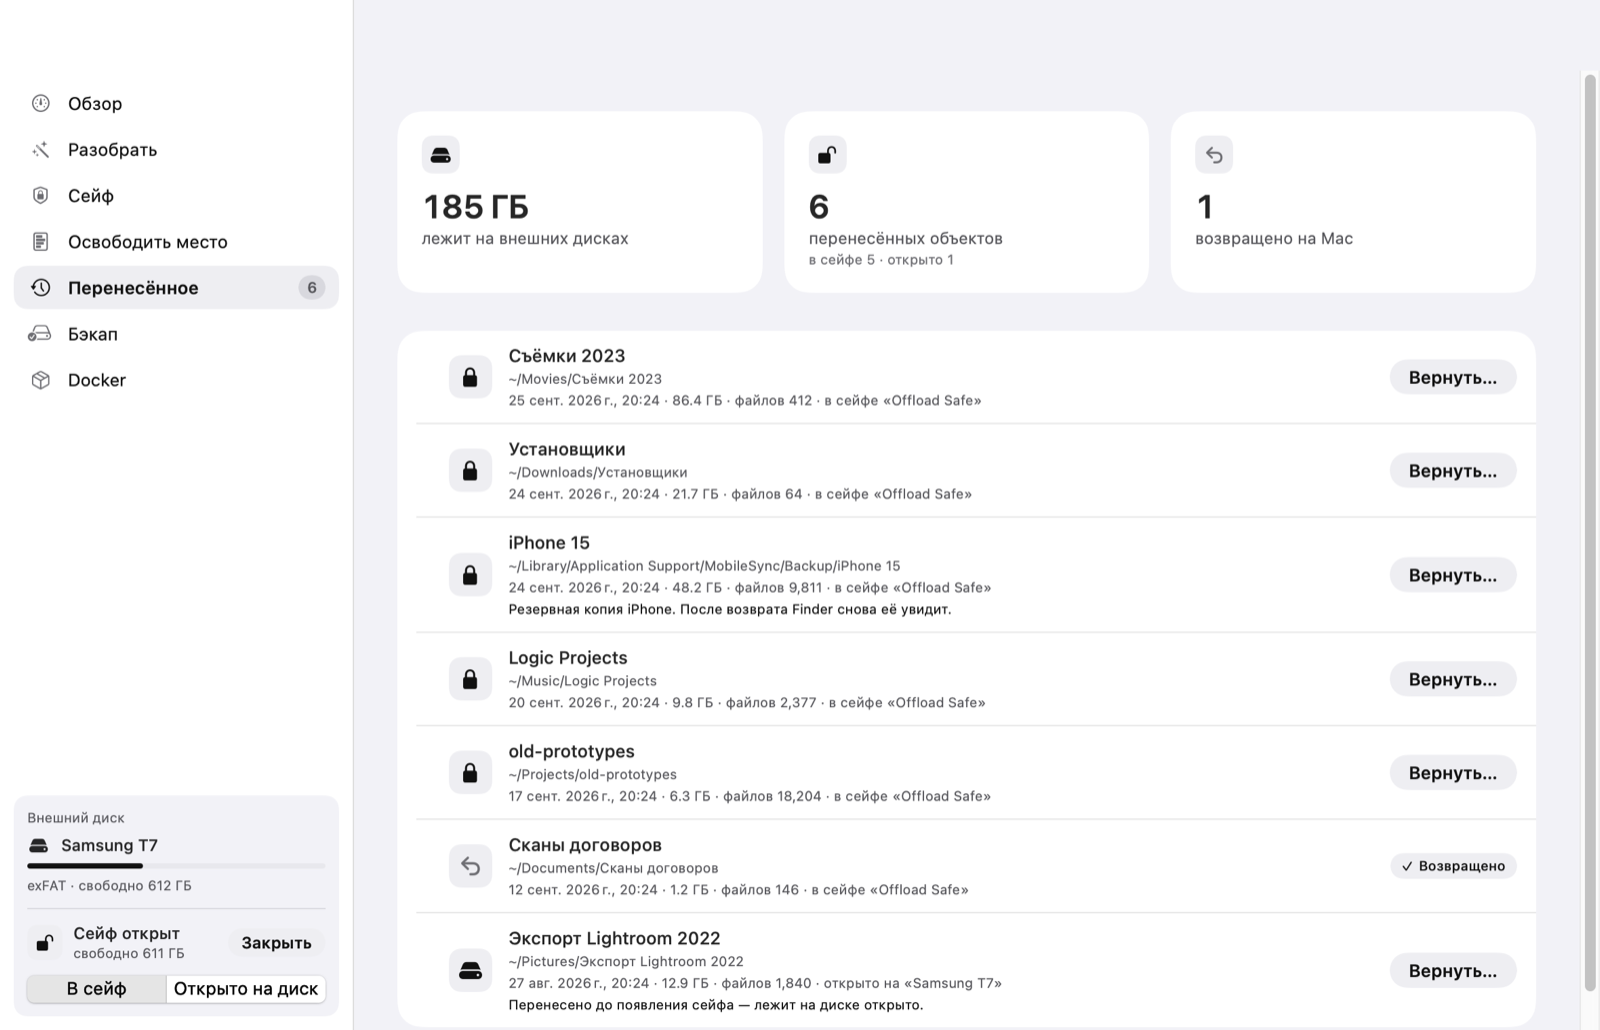
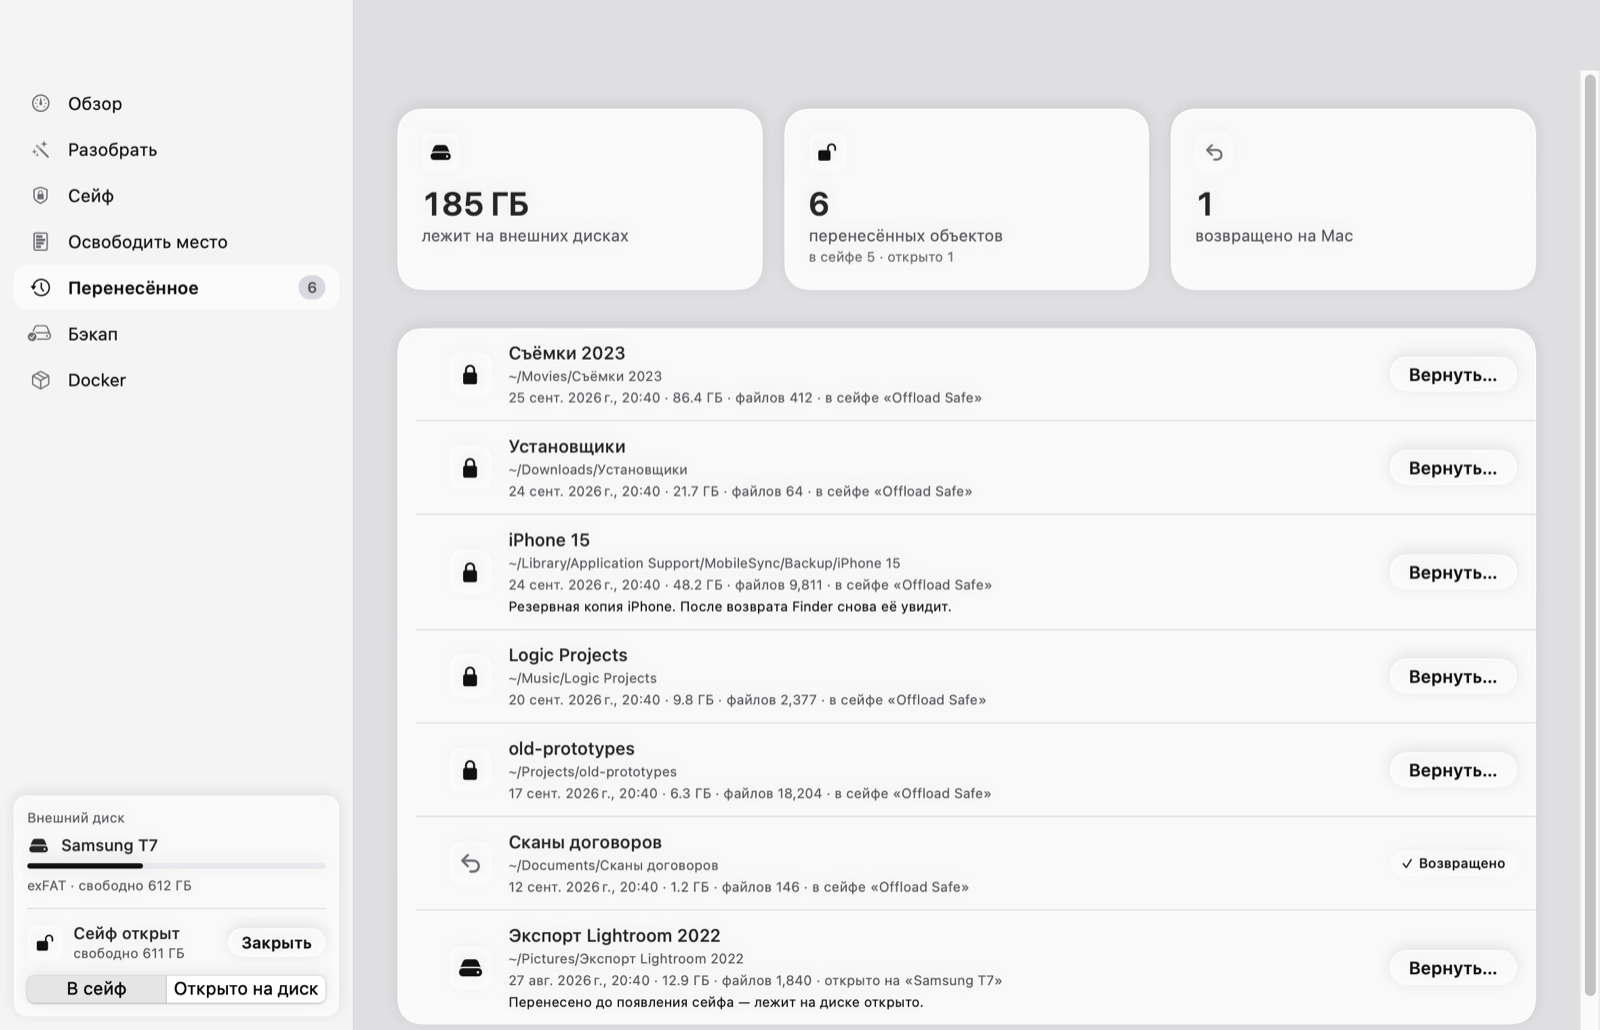
Оформление: приглушённое стекло, как в iOS 27 — окно из размытого стекла под дымкой, стеклянные карточки и кнопки с бликом

diff --git a/Sources/Offload/Views/Design.swift b/Sources/Offload/Views/Design.swift
@@ -5,12 +5,13 @@ import SwiftUI
 
 /// Общий язык интерфейса: отступы, скругления, цвета и стекло.
 ///
-/// Стиль — строгий чёрно-белый, как у Apple и Telegram: белые карточки на светло-сером, чёткий
-/// тёмный текст, шрифт SF, сплошные чёрные кнопки-капсулы. Цветом ничего не украшается: состояния различаются значками и словами,
+/// Стиль — чёрно-белое стекло, как в iOS 27: окно — размытый рабочий стол под приглушающей дымкой,
+/// карточки и кнопки — полупрозрачные стеклянные пластины с бликом по кромке, текст тёмный и чёткий,
+/// шрифт SF. Главные кнопки — тёмные, их видно всегда. Цветом ничего не украшается: состояния различаются значками и словами,
 /// красный — только ошибка. Тема одна — светлая, при любой теме macOS.
 ///
-/// Кнопки и выделение — сплошные: стеклянные (Liquid Glass) в неактивном окне бледнели до вида
-/// выключенных, и их было не разглядеть. `glassSurface` оставлен для будущих плавающих элементов.
+/// Стекло своё (NSVisualEffectView и материалы SwiftUI), а не системные стеклянные кнопки: те в неактивном
+/// окне бледнели до вида выключенных. Это размытие не гаснет, когда окно не в фокусе.
 enum Theme {
     static let pagePadding: CGFloat = 32
     static let sectionSpacing: CGFloat = 28
@@ -19,11 +20,18 @@ enum Theme {
     /// Шире колонка страницы не растягивается: на большом мониторе строки иначе читались бы с трудом.
     static let contentWidth: CGFloat = 980
 
-    /// Страница — светло-серая, карточки на ней — белые: граница видна сразу, без рамок.
-    static let background = hex(0xF2F2F7)
-    static let panel = Color.white
-    /// Подложка значков, ярлыков, выделенной строки и второстепенных кнопок.
-    static let soft = hex(0xEEEEF2)
+    /// Дымка поверх стекла окна: приглушает яркость, но рабочий стол размыто просвечивает.
+    static let background = Color(red: 0.84, green: 0.84, blue: 0.87).opacity(0.4)
+    /// Сплошная светлая поверхность — листы и то, что не лежит на стекле окна.
+    static let panel = hex(0xF4F4F7)
+    /// Стекло карточки: полупрозрачное белое поверх размытия.
+    static let glassFill = Color.white.opacity(0.42)
+    /// Кромка стекла: светлый блик сверху, почти прозрачная снизу.
+    static let glassEdge = LinearGradient(colors: [Color.white.opacity(0.85), Color.white.opacity(0.15)],
+                                          startPoint: .top, endPoint: .bottom)
+    static let glassShadow = Color.black.opacity(0.07)
+    /// Подложка значков, ярлыков, выделенной строки — матовое белое стекло.
+    static let soft = Color.white.opacity(0.55)
     static let ink = hex(0x111111)
     /// Второстепенный текст — тёмно-серый: читается так же уверенно, как в Telegram.
     static let muted = hex(0x55555A)
@@ -116,16 +124,53 @@ struct PillButtonStyle: ButtonStyle {
                 .fixedSize()
                 .padding(.horizontal, large ? 18 : small ? 10 : 14)
                 .padding(.vertical, large ? 8 : small ? 3 : 5)
-                .background(fill, in: Capsule())
+                .background {
+                    if prominent {
+                        Capsule().fill(fill)
+                    } else {
+                        Capsule().fill(.ultraThinMaterial)
+                        Capsule().fill(fill)
+                        Capsule().strokeBorder(Theme.glassEdge, lineWidth: 0.8)
+                    }
+                }
                 .contentShape(Capsule())
                 .opacity(isEnabled ? 1 : 0.4)
                 .onHover { hovering = $0 }
         }
 
         private var fill: Color {
-            if prominent { return configuration.isPressed ? Color.black.opacity(0.75) : hovering ? Color.black : Theme.ink }
-            return configuration.isPressed ? Theme.line : hovering ? Theme.lineSoft : Theme.soft
+            if prominent { return configuration.isPressed ? Color.black.opacity(0.65) : hovering ? Color.black.opacity(0.92) : Theme.ink.opacity(0.86) }
+            return Color.white.opacity(configuration.isPressed ? 0.25 : hovering ? 0.7 : 0.5)
         }
+    }
+}
+
+// MARK: - Стекло окна и пластины
+
+/// Фон окна: рабочий стол размыто просвечивает сквозь стекло. Размытие активно всегда,
+/// и когда окно не в фокусе, — стекло остаётся стеклом.
+struct WindowGlass: NSViewRepresentable {
+    func makeNSView(context: Context) -> NSVisualEffectView {
+        let view = NSVisualEffectView()
+        view.material = .underWindowBackground
+        view.blendingMode = .behindWindow
+        view.state = .active
+        return view
+    }
+
+    func updateNSView(_ view: NSVisualEffectView, context: Context) {}
+}
+
+extension View {
+    /// Стеклянная пластина: размытие того, что под ней, полупрозрачная белая заливка,
+    /// блик по кромке и мягкая тень — как карточки iOS 27.
+    func glassPlate<S: InsettableShape>(in shape: S, tint: Color? = nil) -> some View {
+        background {
+            shape.fill(.ultraThinMaterial)
+            shape.fill(tint ?? Theme.glassFill)
+            shape.strokeBorder(Theme.glassEdge, lineWidth: 0.8)
+        }
+        .shadow(color: Theme.glassShadow, radius: 12, y: 4)
     }
 }
 
@@ -144,7 +189,7 @@ struct PageScroll<Content: View>: View {
             .frame(maxWidth: Theme.contentWidth)
             .frame(maxWidth: .infinity)
         }
-        .background(Theme.background)
+        .scrollContentBackground(.hidden)
     }
 }
 
@@ -166,9 +211,11 @@ struct Card<Content: View>: View {
         }
         .padding(padding)
         .frame(maxWidth: .infinity, maxHeight: fillsHeight ? .infinity : nil, alignment: .topLeading)
-        .background(tint == Theme.bad ? Theme.badSoft : Theme.cardFill, in: shape)
-        // Выделенная карточка (предупреждение) — с чёрной рамкой: заметна без цвета.
-        .overlay { shape.strokeBorder(tint == nil ? Color.clear : tint == Theme.bad ? Theme.bad.opacity(0.35) : Theme.ink, lineWidth: tint == nil ? 0 : 1.2) }
+        .glassPlate(in: shape, tint: tint == Theme.bad ? Theme.badSoft.opacity(0.7) : nil)
+        // Выделенная карточка (предупреждение) — с тёмной рамкой: заметна без цвета.
+        .overlay {
+            if let tint { shape.strokeBorder(tint == Theme.bad ? Theme.bad.opacity(0.4) : Theme.ink.opacity(0.7), lineWidth: 1.2) }
+        }
     }
 }
 
@@ -395,6 +442,7 @@ struct Chip: View {
             .padding(.horizontal, 8)
             .padding(.vertical, 3)
             .background(Theme.soft, in: Capsule())
+            .overlay { Capsule().strokeBorder(Theme.glassEdge, lineWidth: 0.6) }
             .overlay { Capsule().strokeBorder(Theme.cardStroke) }
     }
 }

diff --git a/Sources/Offload/Views/ContentView.swift b/Sources/Offload/Views/ContentView.swift
@@ -42,7 +42,11 @@ struct ContentView: View {
                 }
                 .frame(maxWidth: .infinity, maxHeight: .infinity)
             }
-            .background(Theme.background)
+        }
+        // Всё окно — стекло: размытый рабочий стол под приглушающей дымкой.
+        .background {
+            WindowGlass().ignoresSafeArea()
+            Theme.background.ignoresSafeArea()
         }
         .tint(Theme.brand)
         .glassButtons()
@@ -105,10 +109,11 @@ private struct SidebarRow: View {
     }
 }
 
-/// Фон колонки — белый, как список чатов в Telegram: на нём чётко видны строки и выделение.
+/// Фон колонки — светлее страницы, на том же стекле окна.
 private struct SidebarBackground: ViewModifier {
     func body(content: Content) -> some View {
-        content.background(Theme.panel)
+        // Колонка — чуть светлее страницы, но тоже стекло: окно просвечивает сквозь неё.
+        content.background(Color.white.opacity(0.28))
     }
 }
 
@@ -118,6 +123,8 @@ private struct SidebarSelection: ViewModifier {
 
     func body(content: Content) -> some View {
         let shape = RoundedRectangle(cornerRadius: 10, style: .continuous)
-        content.background(isSelected ? Theme.soft : hovering ? Theme.soft.opacity(0.5) : .clear, in: shape)
+        content
+            .background(isSelected ? Color.white.opacity(0.62) : hovering ? Color.white.opacity(0.3) : .clear, in: shape)
+            .overlay { if isSelected { shape.strokeBorder(Theme.glassEdge, lineWidth: 0.8) } }
     }
 }

diff --git a/Sources/Offload/Views/SafeComponents.swift b/Sources/Offload/Views/SafeComponents.swift
@@ -147,7 +147,7 @@ struct TargetSummary: View {
             Spacer(minLength: 0)
         }
         .padding(10)
-        .background(Theme.background, in: RoundedRectangle(cornerRadius: 12, style: .continuous))
+        .glassPlate(in: RoundedRectangle(cornerRadius: 12, style: .continuous))
     }
 }
 
@@ -202,8 +202,8 @@ struct SafeStatusPanel: View {
         }
         .padding(10)
         .frame(maxWidth: .infinity, alignment: .leading)
-        // Панель внизу колонки — светло-серая пластина на белом.
-        .background(Theme.background, in: shape)
+        // Панель внизу колонки — стеклянная пластина.
+        .glassPlate(in: shape)
     }
 
     @ViewBuilder

diff --git a/Sources/Offload/Views/Components.swift b/Sources/Offload/Views/Components.swift
@@ -115,7 +115,7 @@ struct Notice: View {
     /// Белая плашка с тонкой рамкой; у ошибки — розоватая.
     private var soft: Color {
         switch kind {
-        case .info, .success, .warning: return Theme.background
+        case .info, .success, .warning: return Color.white.opacity(0.5)
         case .error: return Theme.badSoft
         }
     }
